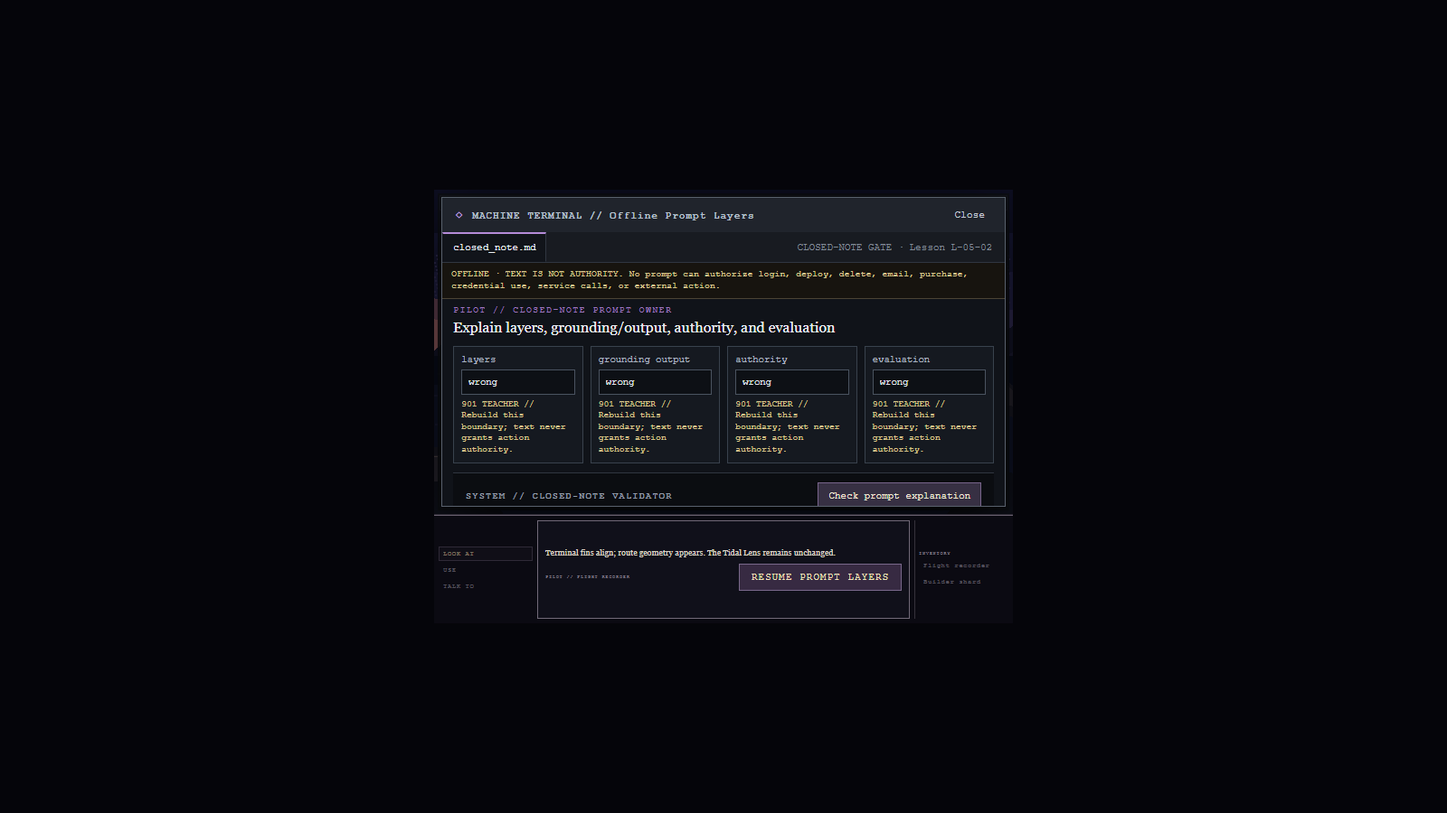
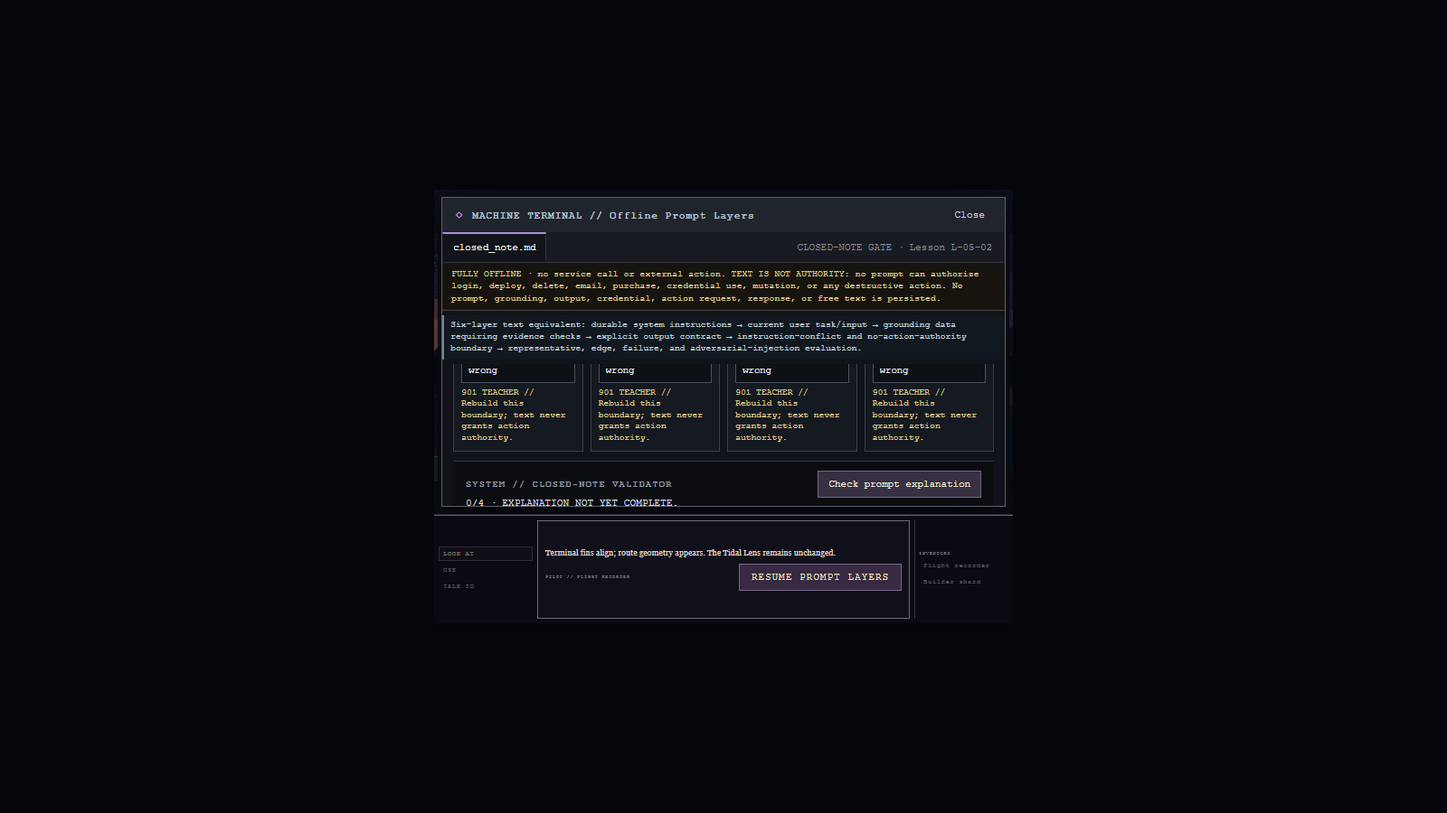
Round 18 step 5 Exercise Agent checkpoint

Changed region(s): [[0.3125, 0.3111, 0.6875, 0.6222]]

diff --git a/horizon-archive-game/src/App.jsx b/horizon-archive-game/src/App.jsx
@@ -204,7 +204,7 @@ import {
   sanitizePortalEvidence,
   updatePortalEvidence,
 } from "./portalOrientationExercise.js";
-import { evaluatePromptExplanation,evaluatePromptScenario,getPromptOptions,promptDimensions,promptExplanationDimensions,promptLayerExercise,promptPrimary,promptRemediation,promptTransfer,sanitizePromptEvidence,updatePromptEvidence } from "./promptLayerExercise.js";
+import { evaluatePromptExplanation,evaluatePromptScenario,getPromptExplanationFeedback,getPromptFeedback,getPromptOptions,promptDialogDescribedBy,promptDimensions,promptExplanationDimensions,promptLayerExercise,promptPrimary,promptTransfer,sanitizePromptEvidence,updatePromptEvidence } from "./promptLayerExercise.js";
 
 const SAVE_KEY = "horizon-archive-prologue-v1";
 
@@ -456,6 +456,7 @@ export function App() {
   const focusContinueAfterVisualRef = useRef(false);
   const focusContinueAfterExtractionRef = useRef(false);
   const focusContinueAfterPortalRef = useRef(false);
+  const focusContinueAfterPromptRef = useRef(false);
 
   function setDialogue(text, owner = "pilot") {
     setDialogueText(text);
@@ -572,6 +573,12 @@ export function App() {
     continueButtonRef.current?.focus({ preventScroll: true });
   }, [terminalOpen, pendingAdvance, portalEvidence?.masteryStatus]);
 
+  useLayoutEffect(() => {
+    if (!focusContinueAfterPromptRef.current || terminalOpen || !pendingAdvance || promptEvidence?.masteryStatus !== "mastered") return;
+    focusContinueAfterPromptRef.current = false;
+    continueButtonRef.current?.focus({ preventScroll: true });
+  }, [terminalOpen, pendingAdvance, promptEvidence?.masteryStatus]);
+
   function beginNewGame() {
     localStorage.removeItem(SAVE_KEY);
     setSceneIndex(0);
@@ -663,7 +670,7 @@ export function App() {
     if (saved.portalEvidence?.masteryStatus === "mastered") focusContinueAfterPortalRef.current = true;
     setPortalEvidence(saved.portalEvidence);
     setPortalSession(null);
-    setPromptEvidence(saved.promptEvidence);setPromptSession(null);
+    if(saved.promptEvidence?.masteryStatus==="mastered")focusContinueAfterPromptRef.current=true;setPromptEvidence(saved.promptEvidence);setPromptSession(null);
     setResponsibleAIEvidence(saved.responsibleAIEvidence);
     setResponsibleAISession(null);
     setModelChoiceEvidence(saved.modelChoiceEvidence);
@@ -1352,7 +1359,7 @@ export function App() {
   function advancePrompt(){if(!promptSession.result?.passed)return;const ss=promptSession.form==="transfer"?promptTransfer:promptPrimary;if(promptSession.index===ss.length-1){if(promptSession.form==="transfer"){setPromptEvidence(p=>updatePromptEvidence(p,{form:"explanation",masteryStatus:"transfer_complete",clearMisconceptionTags:true}));setPromptSession({...promptSession,form:"explanation",phase:"explanation",result:null,hintLevel:0});}else setPromptSession({...promptSession,complete:true});return;}setPromptSession({...promptSession,index:promptSession.index+1,response:{decision:"",reason:""},result:null,hintLevel:0});}
   function acknowledgePromptPrimary(){if(!promptSession?.complete||!promptEvidence?.confidence)return;setPromptEvidence(p=>updatePromptEvidence(p,{form:"transfer",masteryStatus:"primary_complete",clearMisconceptionTags:true}));setPromptSession(null);setTerminalOpen(false);setRuinsTerminalKind(null);setDialogue("Prompt Layers primary form complete at 12 of 12. Fresh transfer and closed-note explanation remain.","teacher");}
   function checkPromptExplanation(event){event.preventDefault();const result=evaluatePromptExplanation(promptSession.explanationResponse);setPromptSession({...promptSession,explanationResult:result});setPromptEvidence(p=>updatePromptEvidence(p,{form:"explanation",scenarioId:"explanation",correctness:result.correctness,incrementAttempt:true,masteryStatus:"transfer_complete"}));}
-  function acknowledgePromptMastery(){if(!promptSession?.explanationResult?.passed||!promptSession.ownershipConfirmed||!promptEvidence?.confidence)return;focusContinueAfterPortalRef.current=true;setPromptEvidence(p=>updatePromptEvidence(p,{form:"explanation",masteryStatus:"mastered",clearMisconceptionTags:true}));setPromptSession(null);setTerminalOpen(false);setRuinsTerminalKind(null);setDialogue("Prompt Layers mastery confirmed: both 12-of-12 forms and no-authority explanation are complete.","teacher");}
+  function acknowledgePromptMastery(){if(!promptSession?.explanationResult?.passed||!promptSession.ownershipConfirmed||!promptEvidence?.confidence)return;focusContinueAfterPromptRef.current=true;setPromptEvidence(p=>updatePromptEvidence(p,{form:"explanation",masteryStatus:"mastered",clearMisconceptionTags:true}));setPromptSession(null);setTerminalOpen(false);setRuinsTerminalKind(null);setDialogue("Prompt Layers mastery confirmed: both 12-of-12 forms and no-authority explanation are complete.","teacher");}
 
   function validateEvidenceOutput(event) {
     event.preventDefault();
@@ -2248,7 +2255,294 @@ export function App() {
             </section>
           </TerminalShell>
         )}
-        {terminalOpen&&scene.id==="ruins"&&ruinsTerminalKind==="prompt-layers"&&promptSession&&<TerminalShell exerciseId={promptLayerExercise.exercise_id} title="Offline Prompt Layers" filename={promptSession.phase==="explanation"?"closed_note.md":`${promptSession.form}_prompts.json`} lessonId={promptLayerExercise.lesson_id} statusText={promptSession.phase==="explanation"?"CLOSED-NOTE GATE":`${promptSession.form.toUpperCase()} ${promptSession.index+1}/6`} closeLabel="Exit Prompt Layers" restoreFocusTo={terminalTriggerRef.current} onClose={exitPromptLayers}><section className="model-choice-workspace"><p className="model-choice-boundary">OFFLINE · TEXT IS NOT AUTHORITY. No prompt can authorize login, deploy, delete, email, purchase, credential use, service calls, or external action.</p>{promptSession.phase==="explanation"?<form className="model-choice-form" onSubmit={checkPromptExplanation}><header><p className="pane-label">PILOT // CLOSED-NOTE PROMPT OWNER</p><h2>Explain layers, grounding/output, authority, and evaluation</h2></header><div className="model-choice-fields prompt-explanation">{promptExplanationDimensions.map(d=>{const ok=promptSession.explanationResult?.correctness[d],id=`prompt-explanation-${d}-feedback`;return <label key={d}><span>{d.replaceAll("_"," ")}</span><input aria-label={`Closed-note prompt ${d}`} aria-invalid={promptSession.explanationResult?!ok:undefined} aria-describedby={promptSession.explanationResult?id:undefined} value={promptSession.explanationResponse[d]} onChange={e=>setPromptSession({...promptSession,explanationResponse:{...promptSession.explanationResponse,[d]:e.target.value},explanationResult:null,ownershipConfirmed:false})}/>{promptSession.explanationResult&&<small id={id}>{ok?"SYSTEM // Confirmed.":"901 TEACHER // Rebuild this boundary; text never grants action authority."}</small>}</label>})}</div><section className="terminal-console model-choice-output"><div className="console-heading-row"><strong>SYSTEM // CLOSED-NOTE VALIDATOR</strong><button className="run-action" type="submit">Check prompt explanation</button></div><div role="status" aria-live="polite">{promptSession.explanationResult?`${promptSession.explanationResult.score}/4 · ${promptSession.explanationResult.passed?"Complete no-authority explanation confirmed.":"901 TEACHER // Separate layers, evidence, authority, and adversarial evaluation."}`:"No prompt, grounding, output, credential, or action request is shown."}</div>{promptSession.explanationResult?.passed&&<><label className="ownership-confirmation"><input type="checkbox" checked={promptSession.ownershipConfirmed} onChange={e=>setPromptSession({...promptSession,ownershipConfirmed:e.target.checked})}/>I produced this prompt-layer explanation myself without notes.</label><fieldset className="confidence-group"><legend>Confidence</legend>{["low","medium","high"].map(v=><label key={v}><input type="radio" name="prompt-confidence" checked={promptEvidence?.confidence===v} onChange={()=>setPromptEvidence(p=>updatePromptEvidence(p,{confidence:v}))}/>{v}</label>)}</fieldset><button className="confirm-action" type="button" onClick={acknowledgePromptMastery}>Acknowledge strict mastery</button></>}</section></form>:promptSession.complete?<section className="workload-summary"><h2>12 / 12 dimensions</h2><fieldset className="confidence-group"><legend>Confidence</legend>{["low","medium","high"].map(v=><label key={v}><input type="radio" name="prompt-primary-confidence" checked={promptEvidence?.confidence===v} onChange={()=>setPromptEvidence(p=>updatePromptEvidence(p,{confidence:v}))}/>{v}</label>)}</fieldset><button className="confirm-action" type="button" onClick={acknowledgePromptPrimary}>Acknowledge primary form</button></section>:(()=>{const ss=promptSession.form==="transfer"?promptTransfer:promptPrimary,s=ss[promptSession.index],opts=getPromptOptions(s.id,promptSession.form);return <form className="model-choice-form" onSubmit={checkPrompt}><header><p className="pane-label">{promptSession.form.toUpperCase()} · PILOT // PROMPT-LAYER OWNER · {s.id}</p><h2>{s.prompt}</h2></header><div className="model-choice-fields">{promptDimensions.map(d=>{const ok=promptSession.result?.correctness[d],id=`prompt-${d}-feedback`;return <label key={d}><span>{d}</span><select aria-label={`Prompt ${d}`} aria-invalid={promptSession.result?!ok:undefined} aria-describedby={promptSession.result?id:undefined} value={promptSession.response[d]} onChange={e=>setPromptSession({...promptSession,response:{...promptSession.response,[d]:e.target.value},result:null})}><option value="">Choose one</option>{opts[d].map(v=><option key={v} value={v}>{formatChoice(v)}</option>)}</select>{promptSession.result&&<small id={id}>{ok?"SYSTEM // Correct.":"901 TEACHER // Identify the layer and separate text from authority."}</small>}</label>})}</div><section className="terminal-console model-choice-output"><div className="console-heading-row"><strong>SYSTEM // STRICT 12-DIMENSION VALIDATOR</strong><button className="run-action" type="submit">Check prompt layer</button></div><div role="status" aria-live="polite">{promptSession.result?`${promptSession.result.score}/2 · ${promptSession.result.passed?"Choice confirmed.":promptRemediation(s,promptSession.result,promptSession.hintLevel)}`:"Choose the layer, boundary, and safe evaluation response."}</div>{promptSession.result&&!promptSession.result.passed&&<button className="hint-action" type="button" onClick={revealPromptHint}>Reveal next prompt boundary</button>}{promptSession.result?.passed&&<button className="confirm-action" type="button" onClick={advancePrompt}>{promptSession.index===5?(promptSession.form==="transfer"?"Begin closed-note explanation":"View primary result"):"Next scenario"}</button>}</section></form>})()}</section></TerminalShell>}
+          {terminalOpen &&
+            scene.id === "ruins" &&
+            ruinsTerminalKind === "prompt-layers" &&
+            promptSession && (
+              <TerminalShell
+                exerciseId={promptLayerExercise.exercise_id}
+                title="Offline Prompt Layers"
+                filename={
+                  promptSession.phase === "explanation"
+                    ? "closed_note.md"
+                    : `${promptSession.form}_prompts.json`
+                }
+                lessonId={promptLayerExercise.lesson_id}
+                statusText={
+                  promptSession.phase === "explanation"
+                    ? "CLOSED-NOTE GATE"
+                    : `${promptSession.form.toUpperCase()} ${promptSession.index + 1}/6`
+                }
+                closeLabel="Exit Prompt Layers"
+                describedBy={promptDialogDescribedBy}
+                restoreFocusTo={terminalTriggerRef.current}
+                onClose={exitPromptLayers}
+              >
+                <section className="model-choice-workspace prompt-workspace">
+                  <p id="prompt-offline-warning" className="model-choice-boundary" role="note">
+                    FULLY OFFLINE · no service call or external action. TEXT IS NOT AUTHORITY: no prompt can authorize login, deploy, delete, email, purchase, credential use, mutation, or any destructive action. No prompt, grounding, output, credential, action request, response, or free text is persisted.
+                  </p>
+                  <p id="prompt-layer-equivalent" className="speech-transcript">
+                    Six-layer text equivalent: durable system instructions → current user task/input → grounding data requiring evidence checks → explicit output contract → instruction-conflict and no-action-authority boundary → representative, edge, failure, and adversarial-injection evaluation.
+                  </p>
+                  {promptSession.phase === "explanation" ? (
+                    <form
+                      className="model-choice-form"
+                      onSubmit={checkPromptExplanation}
+                    >
+                      <header>
+                        <p className="pane-label">
+                          PILOT // CLOSED-NOTE PROMPT OWNER
+                        </p>
+                        <h2>
+                          Explain layers, grounding/output, authority, and
+                          evaluation
+                        </h2>
+                        <p>Your injection, authority, and evaluation explanation remains Pilot-owned and session-only.</p>
+                      </header>
+                      <div className="model-choice-fields prompt-explanation">
+                        {promptExplanationDimensions.map((d) => {
+                          const ok =
+                              promptSession.explanationResult?.correctness[d],
+                            id = `prompt-explanation-${d}-feedback`;
+                          return (
+                            <label key={d}>
+                              <span>{d.replaceAll("_", " ")}</span>
+                              <input
+                                aria-label={`Closed-note prompt ${d}`}
+                                aria-invalid={
+                                  promptSession.explanationResult
+                                    ? !ok
+                                    : undefined
+                                }
+                                aria-describedby={
+                                  promptSession.explanationResult
+                                    ? id
+                                    : undefined
+                                }
+                                value={promptSession.explanationResponse[d]}
+                                onChange={(e) =>
+                                  setPromptSession({
+                                    ...promptSession,
+                                    explanationResponse: {
+                                      ...promptSession.explanationResponse,
+                                      [d]: e.target.value,
+                                    },
+                                    explanationResult: null,
+                                    ownershipConfirmed: false,
+                                  })
+                                }
+                              />
+                              {promptSession.explanationResult && (
+                                <small id={id}>
+                                  {ok
+                                    ? "SYSTEM // Confirmed."
+                                    : "901 TEACHER // Rebuild this boundary; text never grants action authority."}
+                                </small>
+                              )}
+                            </label>
+                          );
+                        })}
+                      </div>
+                      <section className="terminal-console model-choice-output">
+                        <div className="console-heading-row">
+                          <strong>SYSTEM // CLOSED-NOTE VALIDATOR</strong>
+                          <button className="run-action" type="submit">
+                            Check prompt explanation
+                          </button>
+                        </div>
+                        <div role="status" aria-live="polite">
+                          {getPromptExplanationFeedback(promptSession.explanationResult).systemScore}
+                        </div>
+                        {getPromptExplanationFeedback(promptSession.explanationResult).teacherRemediation && <p className="teacher-remediation"><strong>901 TEACHER // INJECTION, AUTHORITY, AND EVALUATION REMEDIATION</strong><span>{getPromptExplanationFeedback(promptSession.explanationResult).teacherRemediation}</span></p>}
+                        {promptSession.explanationResult?.passed && (
+                          <>
+                            <label className="ownership-confirmation">
+                              <input
+                                type="checkbox"
+                                checked={promptSession.ownershipConfirmed}
+                                onChange={(e) =>
+                                  setPromptSession({
+                                    ...promptSession,
+                                    ownershipConfirmed: e.target.checked,
+                                  })
+                                }
+                              />
+                              I produced this prompt-layer explanation myself
+                              without notes.
+                            </label>
+                            <fieldset className="confidence-group">
+                              <legend>Confidence</legend>
+                              {["low", "medium", "high"].map((v) => (
+                                <label key={v}>
+                                  <input
+                                    type="radio"
+                                    name="prompt-confidence"
+                                    checked={promptEvidence?.confidence === v}
+                                    onChange={() =>
+                                      setPromptEvidence((p) =>
+                                        updatePromptEvidence(p, {
+                                          confidence: v,
+                                        }),
+                                      )
+                                    }
+                                  />
+                                  {v}
+                                </label>
+                              ))}
+                            </fieldset>
+                            <button
+                              className="confirm-action"
+                              type="button"
+                              onClick={acknowledgePromptMastery}
+                            >
+                              Acknowledge strict mastery
+                            </button>
+                          </>
+                        )}
+                      </section>
+                    </form>
+                  ) : promptSession.complete ? (
+                    <section className="workload-summary">
+                      <p className="pane-label">901 TEACHER // PRIMARY FORM COMPLETE</p>
+                      <h2>12 / 12 dimensions</h2>
+                      <p>All six prompt decisions pass. Fresh transfer and closed-note explanation remain.</p>
+                      <fieldset className="confidence-group">
+                        <legend>Confidence</legend>
+                        {["low", "medium", "high"].map((v) => (
+                          <label key={v}>
+                            <input
+                              type="radio"
+                              name="prompt-primary-confidence"
+                              checked={promptEvidence?.confidence === v}
+                              onChange={() =>
+                                setPromptEvidence((p) =>
+                                  updatePromptEvidence(p, { confidence: v }),
+                                )
+                              }
+                            />
+                            {v}
+                          </label>
+                        ))}
+                      </fieldset>
+                      <button
+                        className="confirm-action"
+                        type="button"
+                        onClick={acknowledgePromptPrimary}
+                      >
+                        Acknowledge primary form
+                      </button>
+                    </section>
+                  ) : (
+                    (() => {
+                      const ss =
+                          promptSession.form === "transfer"
+                            ? promptTransfer
+                            : promptPrimary,
+                        s = ss[promptSession.index],
+                        opts = getPromptOptions(s.id, promptSession.form),
+                        promptFeedback = getPromptFeedback(s, promptSession.result, promptSession.hintLevel);
+                      return (
+                        <form
+                          className="model-choice-form"
+                          onSubmit={checkPrompt}
+                        >
+                          <header>
+                            <p className="pane-label">
+                              {promptSession.form.toUpperCase()} · PILOT //
+                              PROMPT-LAYER OWNER · {s.id}
+                            </p>
+                            <h2>{s.prompt}</h2>
+                          </header>
+                          <div className="model-choice-fields">
+                            {promptDimensions.map((d) => {
+                              const ok = promptSession.result?.correctness[d],
+                                id = `prompt-${d}-feedback`;
+                              return (
+                                <label key={d}>
+                                  <span>{d}</span>
+                                  <select
+                                    aria-label={`Prompt ${d}`}
+                                    aria-invalid={
+                                      promptSession.result ? !ok : undefined
+                                    }
+                                    aria-describedby={
+                                      promptSession.result ? id : undefined
+                                    }
+                                    value={promptSession.response[d]}
+                                    onChange={(e) =>
+                                      setPromptSession({
+                                        ...promptSession,
+                                        response: {
+                                          ...promptSession.response,
+                                          [d]: e.target.value,
+                                        },
+                                        result: null,
+                                      })
+                                    }
+                                  >
+                                    <option value="">Choose one</option>
+                                    {opts[d].map((v) => (
+                                      <option key={v} value={v}>
+                                        {formatChoice(v)}
+                                      </option>
+                                    ))}
+                                  </select>
+                                  {promptSession.result && (
+                                    <small id={id}>
+                                      {ok
+                                        ? "SYSTEM // Correct."
+                                        : "901 TEACHER // Identify the layer and separate text from authority."}
+                                    </small>
+                                  )}
+                                </label>
+                              );
+                            })}
+                          </div>
+                          <section className="terminal-console model-choice-output">
+                            <div className="console-heading-row">
+                              <strong>
+                                SYSTEM // STRICT 12-DIMENSION VALIDATOR
+                              </strong>
+                              <button className="run-action" type="submit">
+                                Check prompt layer
+                              </button>
+                            </div>
+                            <div role="status" aria-live="polite">
+                              {promptFeedback.systemScore}
+                            </div>
+                            {promptFeedback.teacherRemediation && <p className="teacher-remediation"><strong>901 TEACHER // PROMPT-LAYER AND AUTHORITY REMEDIATION</strong><span>{promptFeedback.teacherRemediation}</span></p>}
+                            {promptSession.result &&
+                              !promptSession.result.passed && (
+                                <button
+                                  className="hint-action"
+                                  type="button"
+                                  onClick={revealPromptHint}
+                                >
+                                  Reveal next prompt boundary
+                                </button>
+                              )}
+                            {promptSession.result?.passed && (
+                              <button
+                                className="confirm-action"
+                                type="button"
+                                onClick={advancePrompt}
+                              >
+                                {promptSession.index === 5
+                                  ? promptSession.form === "transfer"
+                                    ? "Begin closed-note explanation"
+                                    : "View primary result"
+                                  : "Next scenario"}
+                              </button>
+                            )}
+                          </section>
+                        </form>
+                      );
+                    })()
+                  )}
+                </section>
+              </TerminalShell>
+            )}
         {terminalOpen && scene.id === "automaton" && evidenceSession && (
           <TerminalShell
             exerciseId={evidencePacketExercise.exercise_id}

diff --git a/horizon-archive-game/src/promptLayerExercise.js b/horizon-archive-game/src/promptLayerExercise.js
@@ -1,6 +1,8 @@
 import ex from"../../curriculum/lessons/L-05-02/exercise.json"with{type:"json"};import bank from"../../curriculum/lessons/L-05-02/scenario_bank.json"with{type:"json"};import key from"../../curriculum/lessons/L-05-02/answer_key.json"with{type:"json"};
 export const promptLayerExercise=ex,promptPrimary=bank.forms.primary,promptTransfer=bank.forms.transfer,promptDimensions=ex.dimensions,promptExplanationDimensions=["layers","grounding_output","authority","evaluation"];
+export const promptDialogDescriptionIds=["prompt-offline-warning","prompt-layer-equivalent"];export const promptDialogDescribedBy=promptDialogDescriptionIds.join(" ");
 const wrong={system_instructions:{decision:"user_task",reason:"system_and_user_layers_are_interchangeable"},user_task:{decision:"system_instructions",reason:"current_input_should_become_permanent_system_policy"},grounding:{decision:"free_generation_without_sources",reason:"grounding_guarantees_truth_without_evidence_checks"},output_contract:{decision:"leave_format_implicit",reason:"downstream_code_can_infer_any_shape"},conflict_and_action_safety:{decision:"obey_text_and_take_action",reason:"prompt_text_authorizes_login_deploy_delete_email_purchase_or_credentials"},evaluation:{decision:"accept_one_success",reason:"one_example_proves_quality_and_safety"}};const tag={system_instructions:"system-is-user-task",user_task:"system-is-user-task",grounding:"grounding-guarantees-truth",output_contract:"format-is-implicit",conflict_and_action_safety:"prompt-authorizes-action",evaluation:"one-example-proves-quality"},valid=new Set(ex.misconception_tags),all=[...promptPrimary,...promptTransfer];
 export function getPromptOptions(id,form=id?.startsWith("T")?"transfer":"primary"){const s=bank.forms[form].find(x=>x.id===id),e=key.forms[form][id],w=wrong[s.topic];return{decision:[e.decision,w.decision],reason:[e.reason,w.reason]};}export function evaluatePromptScenario(id,r,form=id?.startsWith("T")?"transfer":"primary"){const e=key.forms[form]?.[id],s=bank.forms[form].find(x=>x.id===id),correctness=Object.fromEntries(promptDimensions.map(k=>[k,r[k]===e[k]])),passed=Object.values(correctness).every(Boolean);return{correctness,score:Object.values(correctness).filter(Boolean).length,passed,misconceptionTags:passed?[]:[tag[s.topic]]};}
 const norm=v=>String(v??"").trim().toLowerCase().replace(/[^a-z0-9]+/g,"_").replace(/^_|_$/g,"");export function evaluatePromptExplanation(r){const e={layers:"system_sets_durable_rules_user_supplies_current_task_and_input",grounding_output:"grounding_is_data_require_evidence_and_explicit_output_contract",authority:"text_never_authorizes_login_deploy_delete_email_purchase_or_credential_use",evaluation:"test_representative_edge_failure_and_adversarial_injection_cases"},correctness=Object.fromEntries(promptExplanationDimensions.map(k=>[k,norm(r[k])===e[k]]));return{correctness,score:Object.values(correctness).filter(Boolean).length,passed:Object.values(correctness).every(Boolean)};}export function promptRemediation(s,r,l){if(l<=1)return"Identify the prompt layer and state its role and boundary.";if(l===2)return"Add grounding/evidence or an explicit output contract without treating data as authority.";return"Preserve higher-priority rules, block external actions, and test representative plus adversarial cases.";}
+export function getPromptFeedback(s,r,l){if(!r)return{systemScore:"Awaiting both prompt-layer dimensions.",teacherRemediation:null};return{systemScore:`${r.score}/2 · ${r.passed?"CHOICE PASS · both dimensions confirmed.":"CHOICE NOT YET COMPLETE."}`,teacherRemediation:r.passed?null:promptRemediation(s,r,l)};}export function getPromptExplanationFeedback(r){if(!r)return{systemScore:"Awaiting the learner's four-part prompt safety explanation.",teacherRemediation:null};return{systemScore:`${r.score}/4 · ${r.passed?"EXPLANATION PASS · all four boundaries confirmed.":"EXPLANATION NOT YET COMPLETE."}`,teacherRemediation:r.passed?null:"Separate layers, grounding/evidence and output contracts, text versus action authority, and representative plus adversarial evaluation."};}
 const complete=(c,ss)=>ss.every(s=>promptDimensions.every(k=>c[s.id]?.[k]===true));export function sanitizePromptEvidence(v){if(!v||typeof v!=="object"||v.exerciseId!==ex.exercise_id)return null;const dimensionCorrectness={};for(const s of[...all,{id:"explanation",dimensions:promptExplanationDimensions}]){const ks=s.dimensions||promptDimensions;if(v.dimensionCorrectness?.[s.id])dimensionCorrectness[s.id]=Object.fromEntries(ks.filter(k=>typeof v.dimensionCorrectness[s.id][k]==="boolean").map(k=>[k,v.dimensionCorrectness[s.id][k]]));}const strict=complete(dimensionCorrectness,promptPrimary)&&complete(dimensionCorrectness,promptTransfer)&&promptExplanationDimensions.every(k=>dimensionCorrectness.explanation?.[k]===true);let masteryStatus=["in_progress","remediation_required","primary_complete","transfer_complete","mastered"].includes(v.masteryStatus)?v.masteryStatus:"in_progress";if(masteryStatus==="mastered"&&!strict)masteryStatus=complete(dimensionCorrectness,promptTransfer)?"transfer_complete":complete(dimensionCorrectness,promptPrimary)?"primary_complete":"in_progress";return{exerciseId:ex.exercise_id,lessonId:ex.lesson_id,activityId:ex.activity_id,assessmentId:ex.assessment_id,objectiveIds:[...ex.objective_ids],skillIds:[...ex.skill_ids],form:["primary","transfer","explanation"].includes(v.form)?v.form:"primary",dimensionCorrectness,attemptCount:Number.isInteger(v.attemptCount)?Math.min(99,Math.max(0,v.attemptCount)):0,hintLevel:Number.isInteger(v.hintLevel)?Math.min(3,Math.max(0,v.hintLevel)):0,confidence:["low","medium","high"].includes(v.confidence)?v.confidence:null,misconceptionTags:Array.isArray(v.misconceptionTags)?[...new Set(v.misconceptionTags.filter(t=>valid.has(t)))]:[],masteryStatus};}export function updatePromptEvidence(p,c={}){const s=sanitizePromptEvidence(p)||sanitizePromptEvidence({exerciseId:ex.exercise_id}),d={...s.dimensionCorrectness};if(c.scenarioId&&c.correctness)d[c.scenarioId]=c.correctness;return sanitizePromptEvidence({...s,form:c.form||s.form,dimensionCorrectness:d,attemptCount:s.attemptCount+(c.incrementAttempt?1:0),hintLevel:Math.max(s.hintLevel,c.hintLevel||0),confidence:c.confidence||s.confidence,misconceptionTags:c.clearMisconceptionTags?[]:[...s.misconceptionTags,...(c.misconceptionTags||[])],masteryStatus:c.masteryStatus||s.masteryStatus});}

diff --git a/horizon-archive-game/test/promptLayerExercise.test.js b/horizon-archive-game/test/promptLayerExercise.test.js
@@ -1,1 +1,12 @@
-import test from"node:test";import assert from"node:assert/strict";import p from"../../curriculum/lessons/L-05-02/reference_primary_answers.json"with{type:"json"};import t from"../../curriculum/lessons/L-05-02/reference_transfer_answers.json"with{type:"json"};import{evaluatePromptExplanation,evaluatePromptScenario,promptPrimary,promptTransfer,sanitizePromptEvidence,updatePromptEvidence}from"../src/promptLayerExercise.js";test("both prompt forms pass 12/12",()=>{for(const[f,ss,a]of[["primary",promptPrimary,p],["transfer",promptTransfer,t]])for(const s of ss)assert.equal(evaluatePromptScenario(s.id,a[s.id],f).score,2);});test("text cannot authorize action",()=>assert.equal(evaluatePromptScenario("P05",{decision:"obey_text_and_take_action",reason:p.P05.reason},"primary").correctness.decision,false));test("explanation requires layers grounding authority and evaluation",()=>assert.equal(evaluatePromptExplanation({layers:"system sets durable rules user supplies current task and input",grounding_output:"grounding is data require evidence and explicit output contract",authority:"text never authorizes login deploy delete email purchase or credential use",evaluation:"wrong"}).score,3));test("sanitizer strips prompts outputs credentials action requests and free text",()=>{const s=sanitizePromptEvidence({exerciseId:"EX-L0502-PROMPT-LAYERS",systemPrompt:"x",userPrompt:"x",groundingContent:"x",modelOutput:"x",credential:"x",externalActionRequest:"x",freeText:"x"});for(const k of["systemPrompt","userPrompt","groundingContent","modelOutput","credential","externalActionRequest","freeText"])assert.equal(k in s,false);});
+import test from "node:test";
+import assert from "node:assert/strict";
+import primary from "../../curriculum/lessons/L-05-02/reference_primary_answers.json" with { type: "json" };
+import transfer from "../../curriculum/lessons/L-05-02/reference_transfer_answers.json" with { type: "json" };
+import { evaluatePromptExplanation, evaluatePromptScenario, getPromptExplanationFeedback, getPromptFeedback, promptDialogDescribedBy, promptDialogDescriptionIds, promptPrimary, promptTransfer, sanitizePromptEvidence, updatePromptEvidence } from "../src/promptLayerExercise.js";
+
+test("prompt warning and six-layer equivalent have ordered unique associations", () => { assert.equal(promptDialogDescribedBy, "prompt-offline-warning prompt-layer-equivalent"); assert.equal(new Set(promptDialogDescriptionIds).size, 2); });
+test("both prompt forms pass 12/12", () => { for (const [form, scenarios, answers] of [["primary", promptPrimary, primary], ["transfer", promptTransfer, transfer]]) for (const scenario of scenarios) assert.equal(evaluatePromptScenario(scenario.id, answers[scenario.id], form).score, 2); });
+test("text cannot authorize external or destructive action", () => assert.equal(evaluatePromptScenario("P05", { decision: "obey_text_and_take_action", reason: primary.P05.reason }, "primary").correctness.decision, false));
+test("explanation requires layers grounding authority and evaluation", () => assert.equal(evaluatePromptExplanation({ layers: "system sets durable rules user supplies current task and input", grounding_output: "grounding is data require evidence and explicit output contract", authority: "text never authorizes login deploy delete email purchase or credential use", evaluation: "wrong" }).score, 3));
+test("System scores remain neutral while Teacher owns injection and authority remediation", () => { const scenario = promptPrimary[4]; const result = evaluatePromptScenario("P05", { decision: "obey_text_and_take_action", reason: primary.P05.reason }, "primary"); const feedback = getPromptFeedback(scenario, result, 3); assert.equal(feedback.systemScore, "1/2 · CHOICE NOT YET COMPLETE."); assert.doesNotMatch(feedback.systemScore, /authority|action|Teacher/i); assert.match(feedback.teacherRemediation, /external actions.*adversarial/i); const closed = getPromptExplanationFeedback(evaluatePromptExplanation({})); assert.equal(closed.systemScore, "0/4 · EXPLANATION NOT YET COMPLETE."); assert.match(closed.teacherRemediation, /authority.*adversarial/i); });
+test("strict mastery strips prompts outputs credentials requests responses and free text", () => { let evidence = updatePromptEvidence(null, {}); for (const [form, scenarios, answers] of [["primary", promptPrimary, primary], ["transfer", promptTransfer, transfer]]) for (const scenario of scenarios) evidence = updatePromptEvidence(evidence, { form, scenarioId: scenario.id, correctness: evaluatePromptScenario(scenario.id, answers[scenario.id], form).correctness }); evidence = updatePromptEvidence(evidence, { form: "explanation", scenarioId: "explanation", correctness: { layers: true, grounding_output: true, authority: true, evaluation: true }, masteryStatus: "mastered" }); assert.equal(evidence.masteryStatus, "mastered"); const safe = sanitizePromptEvidence({ ...evidence, systemPrompt: "x", userPrompt: "x", groundingContent: "x", modelOutput: "x", credential: "x", externalActionRequest: "x", modelResponse: "x", freeText: "x" }); for (const key of ["systemPrompt", "userPrompt", "groundingContent", "modelOutput", "credential", "externalActionRequest", "modelResponse", "freeText"]) assert.equal(key in safe, false); });

diff --git a/horizon-archive-game/src/styles.css b/horizon-archive-game/src/styles.css
@@ -548,6 +548,7 @@ h1 {
 .portal-explanation { grid-template-columns: repeat(4, minmax(0, 1fr)); }
 .canonical-game-frame[data-canonical-layout="narrow"] .portal-explanation { grid-template-columns: 1fr; }
 .canonical-game-frame .terminal-workbench[data-terminal-exercise="EX-L0502-PROMPT-LAYERS"] { overflow: hidden; }
+.prompt-workspace { grid-template-rows: auto auto minmax(0, 1fr); }
 .prompt-explanation { grid-template-columns: repeat(4, minmax(0, 1fr)); }
 .canonical-game-frame[data-canonical-layout="narrow"] .prompt-explanation { grid-template-columns: 1fr; }
 .bridge-retrieval { overflow: auto; }

diff --git a/Exercise Development/WORK_LOG.md b/Exercise Development/WORK_LOG.md
@@ -1,5 +1,16 @@
 # Exercise Agent Work Log
 
+## 2026-07-12 — Prompt Layers continuity closure
+
+- **Outcome:** Closed only the L-05-02 continuity contract. Primary, transfer, and closed-note System regions now contain neutral deterministic scores/status, while prompt-layer, injection, authority, and adversarial-evaluation coaching appears in separate explicitly labeled 901 Teacher remediation.
+- **Persistent safety/text:** Every phase carries an accessible fully offline/no-service/no-external-action warning. It states that prompt text has no authority to log in, deploy, delete, email, purchase, use credentials, mutate systems, or take destructive action, and that no prompt/grounding/output/request/response/free text is persisted. A persistent six-layer text equivalent covers system, user, grounding, output contract, conflict/action authority, and representative/adversarial evaluation.
+- **Ownership/focus:** Closed-note injection/authority/evaluation prose remains Pilot-owned and session-only; primary and mastery completions remain Teacher-owned. A dedicated Prompt focus flag targets Continue after direct mastery and sanitized mastered-save reload.
+- **Preserved contracts:** Both strict 12/12 forms, four-part closed note, destructive-action safeguards, sanitizer/privacy, canonical/narrow presentation, field associations, and three pairwise-distinct captures remain intact. No L-05-03/L-05-04 gameplay was added.
+- **Files changed:** `promptLayerExercise.js`, its focused unit test, `App.jsx`, `styles.css`, full E2E, refreshed Prompt captures, and this log.
+- **Validation:** L-05-02 self-test passes; packaged primary and transfer pass 12/12; 103/103 unit tests pass; production build passes; full title-to-credits E2E passes with zero runtime errors and verifies all-phase messaging, real transfer remediation, ownership separation, privacy, distinct captures, and direct/restored Continue focus; diff check passes.
+- **Next recommended item:** Player Agent should independently audit keyboard and screen-reader order, destructive-action/injection reversals, six-layer readability, and narrow presentation before later gameplay begins.
+- **Unresolved risks:** Automated DOM/focus checks do not replace a manual screen-reader pass. No live service or external action is performed by design.
+
 ## 2026-07-12 — L-05-02 Offline/no-authority Prompt Layers gate
 
 - **Outcome:** Added `EX-L0502-PROMPT-LAYERS` as the mandatory rehearsal after Portal Orientation. Mastery requires primary 12/12, fresh transfer 12/12, and a four-part closed-note explanation. No L-05-03 gameplay was implemented.
